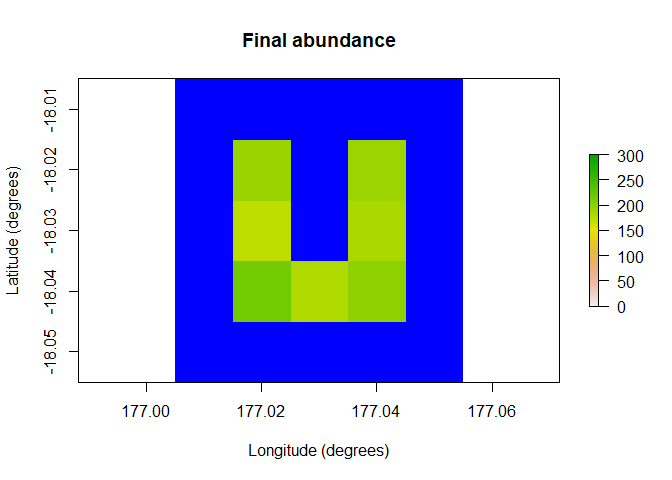
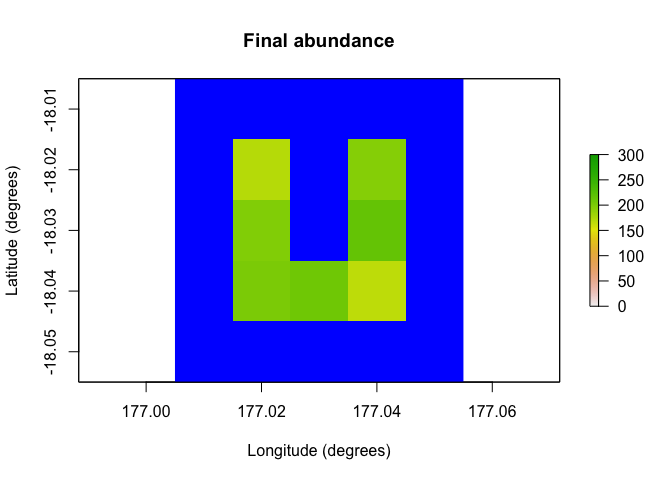
Getting ready for new CRAN release
Making all the last changes needed to go to CRAN.

diff --git a/README.md b/README.md
@@ -4,6 +4,11 @@
 # poems: Pattern-oriented ensemble modeling system (for spatially explicit populations)
 
 <!-- badges: start -->
+
+[![CRAN
+status](https://www.r-pkg.org/badges/version/poems)](https://CRAN.R-project.org/package=poems)
+[![Download_count](https://cranlogs.r-pkg.org/badges/grand-total/poems)](https://CRAN.R-project.org/package=poems)
+[![Paper_doi](https://img.shields.io/badge/doi-10.1111/2041--210X.13720-orange.svg)](https://doi.org/10.1111/2041-210X.13720)
 <!-- badges: end -->
 
 The poems package provides a framework of interoperable *R6* (Chang,
@@ -75,6 +80,7 @@ raster::plot(region$raster_from_values(initial_abundance),
 <img src="man/figures/README-example-1.png" width="100%" style="display: block; margin: auto;" />
 
 ``` r
+
 # Set population model
 pop_model <- PopulationModel$new(
   region = region,
@@ -93,47 +99,47 @@ results <- population_simulator(pop_model)
 results # examine
 #> $all
 #> $all$abundance
-#> [1] 1067 1107 1263 1327 1336
+#> [1]  995 1117 1244 1300 1353
 #> 
 #> $all$abundance_stages
 #> $all$abundance_stages[[1]]
-#> [1] 652 662 754 820 744
+#> [1] 584 679 759 762 817
 #> 
 #> $all$abundance_stages[[2]]
-#> [1] 415 445 509 507 592
+#> [1] 411 438 485 538 536
 #> 
 #> 
 #> 
 #> $abundance
 #>      [,1] [,2] [,3] [,4] [,5]
-#> [1,]   52  124  154  177  193
-#> [2,]  100  149  195  180  191
-#> [3,]  129  153  159  179  173
-#> [4,]  152  145  167  168  183
-#> [5,]  219  169  202  204  216
-#> [6,]  205  172  186  210  180
-#> [7,]  210  195  200  209  200
+#> [1,]   59  105  157  153  170
+#> [2,]   94  130  174  172  195
+#> [3,]  143  177  198  188  197
+#> [4,]  151  165  175  210  215
+#> [5,]  171  163  150  160  201
+#> [6,]  187  187  217  218  208
+#> [7,]  190  190  173  199  167
 #> 
 #> $abundance_stages
 #> $abundance_stages[[1]]
 #>      [,1] [,2] [,3] [,4] [,5]
-#> [1,]   31   73   91  108  103
-#> [2,]   67   76  118  110  119
-#> [3,]   80   99  103  110  111
-#> [4,]  100   74  108   93   99
-#> [5,]  138   98  125  118  121
-#> [6,]  121  113  106  145   84
-#> [7,]  115  129  103  136  107
+#> [1,]   36   64   98   90  100
+#> [2,]   59   72  116   91  122
+#> [3,]   87  104  129  105  116
+#> [4,]   90  104  101  126  132
+#> [5,]   93  106   96   91  132
+#> [6,]  118  110  122  139  114
+#> [7,]  101  119   97  120  101
 #> 
 #> $abundance_stages[[2]]
 #>      [,1] [,2] [,3] [,4] [,5]
-#> [1,]   21   51   63   69   90
-#> [2,]   33   73   77   70   72
-#> [3,]   49   54   56   69   62
-#> [4,]   52   71   59   75   84
-#> [5,]   81   71   77   86   95
-#> [6,]   84   59   80   65   96
-#> [7,]   95   66   97   73   93
+#> [1,]   23   41   59   63   70
+#> [2,]   35   58   58   81   73
+#> [3,]   56   73   69   83   81
+#> [4,]   61   61   74   84   83
+#> [5,]   78   57   54   69   69
+#> [6,]   69   77   95   79   94
+#> [7,]   89   71   76   79   66
 raster::plot(region$raster_from_values(results$abundance[,5]),
              main = "Final abundance", xlab = "Longitude (degrees)", 
              ylab = "Latitude (degrees)", zlim = c(0, 300), colNA = "blue")
@@ -148,7 +154,7 @@ of *poems* can be found in the accompanying vignettes.
 
 Beaumont, M. A., Zhang, W., & Balding, D. J. (2002). ‘Approximate
 Bayesian computation in population genetics’. *Genetics*, vol. 162, no.
-4, pp, 2025–2035.
+4, pp, 2025–2035. <doi:10.1093/genetics/162.4.2025>
 
 Chang, W. (2020). ‘R6: Encapsulated Classes with Reference Semantics’.
 *R package version 2.5.0*. Retrieved from
@@ -162,7 +168,9 @@ Grimm, V., Revilla, E., Berger, U., Jeltsch, F., Mooij, W. M.,
 Railsback, S. F., Thulke, H. H., Weiner, J., Wiegand, T., DeAngelis, D.
 L., (2005). ‘Pattern-Oriented Modeling of Agent-Based Complex Systems:
 Lessons from Ecology’. *Science* vol. 310, no. 5750, pp. 987–991.
+<doi:10.1126/science.1116681>
 
 Iman R. L., Conover W. J. (1980). ‘Small sample sensitivity analysis
 techniques for computer models, with an application to risk assessment’.
 *Commun Stat Theor Methods* A9, pp. 1749–1842.
+<doi:10.1080/03610928008827996>

diff --git a/cran-comments.md b/cran-comments.md
@@ -1,8 +1,11 @@
 ## Test environments
-* win-builder (devel and release)
-* local OS X (13.4) install, R 4.3.0
+* win-builder (devel)
+* local OS X (13.5) install, R 4.3.1
 
+## R CMD check results
 
+1 NOTE: Possibly misspelled words in DESCRIPTION
 
-## Downstream dependencies
-
+The words that failed spell check were "Conover", "Iman", "et al" (all part of the citations in the DESCRIPTION) and
+"stochasticity" and "translocations" (common words in ecology referring to sources of randomness and relocating
+animals for conservation purposes, respectively.)

diff --git a/NEWS.md b/NEWS.md
@@ -1,3 +1,8 @@
+# 1.1.0
+
+- Added density dependent dispersal, via density dependence in the source population and the target population
+- Added Poisson distributions as a possible parameter distribution to the Latin hypercube sampler
+
 # 1.0.6
 
 - Patched some errors and notes that came up in the tests for the generator object and the spatial correlation object
